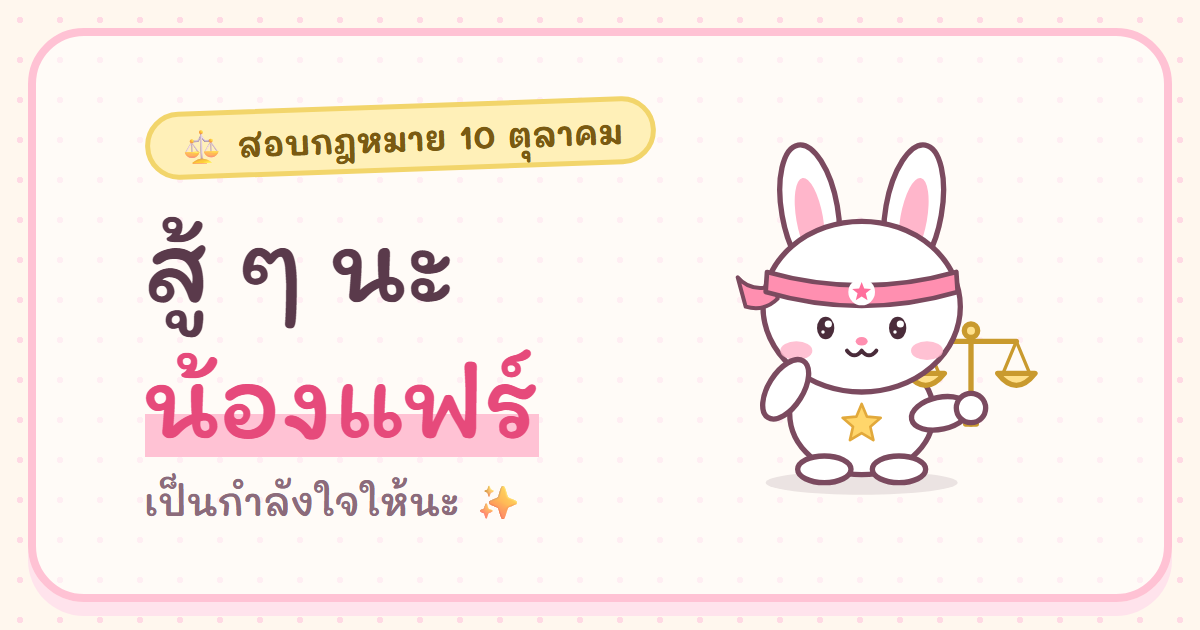
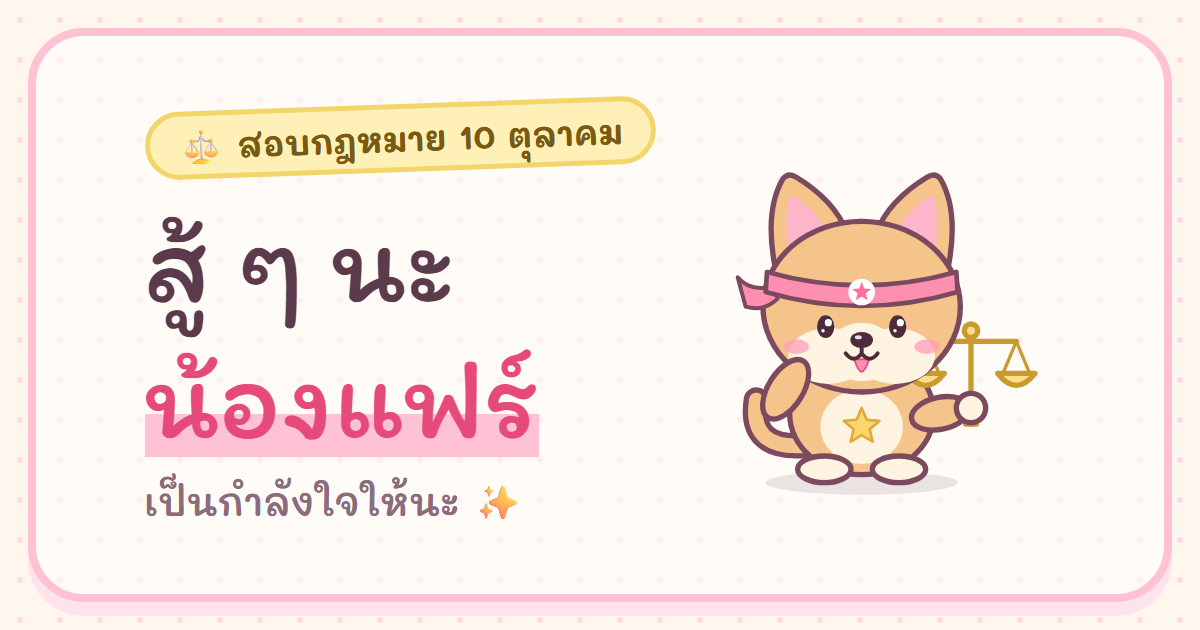
Swap mascot to a dog and replace letter with a playful court game
- Redraw mascot as a shiba-style puppy (wagging tail, headband, scales)
- Remove the letter section; add "ศาลกวน ๆ" random verdict game
- Regenerate og.png

Changed region(s): [[0.6167, 0.2111, 0.8325, 0.7841]]

diff --git a/index.html b/index.html
@@ -34,28 +34,35 @@
       <p class="sub">แฟร์ทำได้อยู่แล้ว เป็นกำลังใจให้นะ ✨</p>
 
       <div class="stage">
-        <div class="bubble" id="bubble" aria-live="polite">กดที่ตัวน้องกระต่ายได้นะ 🐰</div>
+        <div class="bubble" id="bubble" aria-live="polite">กดที่ตัวน้องหมาได้นะ 🐶</div>
 
-        <button class="mascot-btn" id="mascotBtn" type="button" aria-label="จิ้มน้องกระต่ายเพื่อรับกำลังใจ">
+        <button class="mascot-btn" id="mascotBtn" type="button" aria-label="จิ้มน้องหมาเพื่อรับกำลังใจ">
           <svg class="mascot" viewBox="0 0 270 280" aria-hidden="true">
             <ellipse class="shadow" cx="125" cy="266" rx="72" ry="9" fill="#5A3A4B" opacity=".12"/>
 
-            <g class="bunny">
+            <g class="pup">
+              <!-- หาง -->
+              <g class="tail">
+                <path d="M84 238 Q40 242 46 204" fill="none" stroke="#7B4A5F" stroke-width="19" stroke-linecap="round"/>
+                <path d="M84 238 Q40 242 46 204" fill="none" stroke="#F5C48A" stroke-width="11" stroke-linecap="round"/>
+              </g>
+
               <!-- หู -->
               <g class="ear ear-l">
-                <ellipse cx="86" cy="62" rx="21" ry="50" transform="rotate(-10 86 62)" fill="#fff" stroke="#7B4A5F" stroke-width="4"/>
-                <ellipse cx="86" cy="68" rx="10" ry="31" transform="rotate(-10 86 68)" fill="#FFB6CB"/>
+                <path d="M60 104 Q52 62 66 38 Q70 33 76 37 Q104 54 114 78 Z" fill="#F5C48A" stroke="#7B4A5F" stroke-width="4" stroke-linejoin="round"/>
+                <path d="M70 92 Q66 62 72 50 Q92 62 100 80 Z" fill="#FFB6CB"/>
               </g>
               <g class="ear ear-r">
-                <ellipse cx="164" cy="62" rx="21" ry="50" transform="rotate(10 164 62)" fill="#fff" stroke="#7B4A5F" stroke-width="4"/>
-                <ellipse cx="164" cy="68" rx="10" ry="31" transform="rotate(10 164 68)" fill="#FFB6CB"/>
+                <path d="M190 104 Q198 62 184 38 Q180 33 174 37 Q146 54 136 78 Z" fill="#F5C48A" stroke="#7B4A5F" stroke-width="4" stroke-linejoin="round"/>
+                <path d="M180 92 Q184 62 178 50 Q158 62 150 80 Z" fill="#FFB6CB"/>
               </g>
 
               <!-- ตัว -->
-              <ellipse cx="125" cy="214" rx="54" ry="46" fill="#fff" stroke="#7B4A5F" stroke-width="4"/>
-              <polygon points="125.0,207.0 129.0,216.5 139.3,217.4 131.5,224.1 133.8,234.1 125.0,228.8 116.2,234.1 118.5,224.1 110.7,217.4 121.0,216.5" fill="#FFD66B" stroke="#E2A93B" stroke-width="2" stroke-linejoin="round"/>
-              <ellipse cx="97" cy="256" rx="20" ry="10" fill="#fff" stroke="#7B4A5F" stroke-width="4"/>
-              <ellipse cx="153" cy="256" rx="20" ry="10" fill="#fff" stroke="#7B4A5F" stroke-width="4"/>
+              <ellipse cx="125" cy="214" rx="54" ry="46" fill="#F5C48A" stroke="#7B4A5F" stroke-width="4"/>
+              <ellipse cx="125" cy="224" rx="31" ry="28" fill="#FFF4E2"/>
+              <polygon points="125.0,210.0 128.8,218.8 138.3,219.7 131.1,226.0 133.2,235.3 125.0,230.4 116.8,235.3 118.9,226.0 111.7,219.7 121.2,218.8" fill="#FFD66B" stroke="#E2A93B" stroke-width="2" stroke-linejoin="round"/>
+              <ellipse cx="97" cy="256" rx="20" ry="10" fill="#FFF4E2" stroke="#7B4A5F" stroke-width="4"/>
+              <ellipse cx="153" cy="256" rx="20" ry="10" fill="#FFF4E2" stroke="#7B4A5F" stroke-width="4"/>
 
               <!-- ตราชั่ง -->
               <g class="scale">
@@ -79,8 +86,13 @@
                 </g>
               </g>
 
-              <!-- หัว -->
-              <ellipse cx="125" cy="134" rx="74" ry="64" fill="#fff" stroke="#7B4A5F" stroke-width="4"/>
+              <!-- หัว + แก้มสีครีม -->
+              <ellipse cx="125" cy="134" rx="74" ry="64" fill="#F5C48A" stroke="#7B4A5F" stroke-width="4"/>
+              <g fill="#FFF4E2">
+                <ellipse cx="100" cy="171" rx="30" ry="21"/>
+                <ellipse cx="150" cy="171" rx="30" ry="21"/>
+                <ellipse cx="125" cy="168" rx="26" ry="22"/>
+              </g>
 
               <!-- ผ้าคาดหัว "สู้" -->
               <g class="band-tails">
@@ -92,25 +104,27 @@
 
               <!-- หน้า -->
               <g class="eyes">
-                <ellipse cx="98" cy="150" rx="6.5" ry="8.5" fill="#4A2C3A"/>
-                <ellipse cx="152" cy="150" rx="6.5" ry="8.5" fill="#4A2C3A"/>
-                <circle cx="100" cy="147" r="2.7" fill="#fff"/>
-                <circle cx="154" cy="147" r="2.7" fill="#fff"/>
-                <circle cx="96" cy="153" r="1.3" fill="#fff"/>
-                <circle cx="150" cy="153" r="1.3" fill="#fff"/>
+                <ellipse cx="98" cy="149" rx="6.5" ry="8.5" fill="#4A2C3A"/>
+                <ellipse cx="152" cy="149" rx="6.5" ry="8.5" fill="#4A2C3A"/>
+                <circle cx="100" cy="146" r="2.7" fill="#fff"/>
+                <circle cx="154" cy="146" r="2.7" fill="#fff"/>
+                <circle cx="96" cy="152" r="1.3" fill="#fff"/>
+                <circle cx="150" cy="152" r="1.3" fill="#fff"/>
               </g>
-              <ellipse cx="76" cy="167" rx="12" ry="7" fill="#FFB6CB" opacity=".85"/>
-              <ellipse cx="174" cy="167" rx="12" ry="7" fill="#FFB6CB" opacity=".85"/>
-              <ellipse cx="125" cy="160" rx="4.5" ry="3.2" fill="#FF8FB0"/>
-              <path d="M114 167 q5.5 7 11 0 q5.5 7 11 0" fill="none" stroke="#4A2C3A" stroke-width="3" stroke-linecap="round" stroke-linejoin="round"/>
+              <ellipse cx="76" cy="164" rx="9.5" ry="5.5" fill="#FF9DB8" opacity=".75"/>
+              <ellipse cx="174" cy="164" rx="9.5" ry="5.5" fill="#FF9DB8" opacity=".75"/>
+              <path d="M119.500 173.500 Q125 192 130.500 173.500 Z" fill="#FF8FB0" stroke="#D85A85" stroke-width="1.5" stroke-linejoin="round"/>
+              <path d="M125 165 L125 169 M113 169 Q119 177 125 169 Q131 177 137 169" fill="none" stroke="#4A2C3A" stroke-width="3" stroke-linecap="round" stroke-linejoin="round"/>
+              <ellipse cx="125" cy="159" rx="8.5" ry="6" fill="#4A2C3A"/>
+              <ellipse cx="122.500" cy="157" rx="2.600" ry="1.500" fill="#fff" opacity=".85"/>
 
               <!-- แขนข้างขวา จับตราชั่ง -->
-              <ellipse cx="184" cy="214" rx="22" ry="12" transform="rotate(-12 184 214)" fill="#fff" stroke="#7B4A5F" stroke-width="4"/>
-              <circle cx="207" cy="210" r="11" fill="#fff" stroke="#7B4A5F" stroke-width="4"/>
+              <ellipse cx="184" cy="214" rx="22" ry="12" transform="rotate(-12 184 214)" fill="#F5C48A" stroke="#7B4A5F" stroke-width="4"/>
+              <circle cx="207" cy="210" r="11" fill="#FFF4E2" stroke="#7B4A5F" stroke-width="4"/>
 
               <!-- แขนข้างซ้าย โบกมือ -->
               <g class="arm-l">
-                <ellipse cx="68" cy="196" rx="13" ry="25" transform="rotate(32 68 196)" fill="#fff" stroke="#7B4A5F" stroke-width="4"/>
+                <ellipse cx="68" cy="196" rx="13" ry="25" transform="rotate(32 68 196)" fill="#F5C48A" stroke="#7B4A5F" stroke-width="4"/>
               </g>
             </g>
           </svg>
@@ -136,18 +150,14 @@
       <p class="cd-note" id="cdNote"></p>
     </section>
 
-    <!-- ================= LETTER ================= -->
-    <section class="card reveal" aria-labelledby="letterTitle">
-      <h2 class="section-title" id="letterTitle">✉ ข้อความถึงแฟร์</h2>
-      <div class="letter">
-        <span class="tape" aria-hidden="true"></span>
-        <p>ถึง แฟร์</p>
-        <p>ช่วงนี้คงอ่านหนังสือหนักอยู่เลยใช่มั้ย ตัวบทก็เยอะ มาตราก็เยอะ แต่เห็นแฟร์ตั้งใจมากเลยนะ เก่งมากจริง ๆ</p>
-        <p>วันที่ <span class="exam-day">10</span> นี้ ไม่ต้องกดดันตัวเองเกินไปนะ เต็มที่เท่าที่ทำได้ก็พอแล้ว ถ้าเหนื่อยก็พักได้ แล้วค่อยลุยต่อนะ</p>
-        <p>ขอให้ทุกอย่างที่อ่านมาออกมาครบทุกมาตรา สมองแล่น มือลื่น ใจนิ่ง แล้วไว้มาเล่าให้ฟังหลังสอบนะ 🌷</p>
-        <p class="sign">เป็นกำลังใจให้นะ ✨</p>
-        <span class="stamp" aria-hidden="true">⚖</span>
+    <!-- ================= ศาลกวน ๆ ================= -->
+    <section class="card reveal court" aria-labelledby="courtTitle">
+      <h2 class="section-title" id="courtTitle">🔨 ศาลกวน ๆ เปิดพิจารณาคดี</h2>
+      <p class="section-sub">ยื่นฟ้องสิ่งที่ทำให้กังวล แล้วให้ศาลพิพากษาให้เลย</p>
+      <div class="verdict" id="verdict" aria-live="polite">
+        <p class="verdict-empty">⚖ ยังไม่มีคดีขึ้นศาล<br>กดปุ่มด้านล่างเพื่อยื่นฟ้อง</p>
       </div>
+      <button class="gavel-btn" id="gavelBtn" type="button">🔨 ยื่นฟ้อง + เคาะค้อน!</button>
     </section>
 
     <!-- ================= ประมวลกำลังใจ ================= -->

diff --git a/script.js b/script.js
@@ -26,6 +26,20 @@ const CHEER_MESSAGES = [
   'สู้ ๆ นะ ขอให้ทุกอย่างผ่านไปด้วยดี 🌈',
 ];
 
+const COURT_CASES = [
+  ['ความกังวล', 'แอบมากวนใจตอนจะหลับ', 'จำคุกตลอดชีวิตในกล่องความคิด ห้ามประกันตัว'],
+  ['ความขี้เกียจ', 'ชวนไปดูซีรีส์ ทั้งที่ยังอ่านไม่จบบท', 'ปรับให้อ่านอีกหนึ่งบท แล้วค่อยดูต่อได้ครึ่งตอน'],
+  ['อาการลืมมาตรา', 'หายตัวไปตอนเปิดข้อสอบ', 'ให้ปรากฏตัวภายในสามวินาที ฝ่าฝืนต้องไปนั่งทวนใหม่'],
+  ['ความง่วงตอนเที่ยงคืน', 'ลักลอบเข้ามาตอนกำลังทบทวน', 'ศาลสั่งให้งีบ 20 นาที แล้วลุกมากินขนมต่อ'],
+  ['ความคิดว่าตัวเองไม่เก่ง', 'ใส่ร้ายเจ้าของร่างโดยไม่มีพยานหลักฐาน', 'ยกฟ้อง! ศาลเห็นว่าแฟร์เก่งเกินกว่าจะถูกใส่ร้าย'],
+  ['โทรศัพท์มือถือ', 'ดึงสมาธิระหว่างอ่านหนังสือ', 'ศาลสั่งให้คว่ำจอ 25 นาที พักแล้วค่อยเล่นได้'],
+  ['ความตื่นเต้นหน้าห้องสอบ', 'ทำให้มือเย็นและใจเต้นรัว', 'ให้หายใจเข้า-ออกลึก ๆ สามครั้ง คดีเป็นอันยุติ'],
+  ['ตัวบทกฎหมายเล่มหนา ๆ', 'หนาเกินกว่าเหตุ', 'ให้ถูกอ่านทีละหน้า แล้วจะบางลงเองโดยปริยาย'],
+  ['ข้อสอบข้อยาก', 'ทำให้เกิดความเครียดโดยไม่จำเป็น', 'ศาลสั่งให้ข้ามไปทำข้อง่ายก่อน แล้วค่อยย้อนกลับมาสู้'],
+  ['ชานมไข่มุก', 'ล่อลวงให้ใจสั่นก่อนสอบ', 'ศาลอนุญาตให้ดื่มได้หนึ่งแก้ว หลังสอบเสร็จเท่านั้น'],
+  ['กองหนังสือสูงเป็นภูเขา', 'ข่มขวัญเจ้าของโต๊ะอ่านหนังสือ', 'ศาลเห็นว่าแฟร์อ่านมาแล้วเยอะกว่าที่คิด ให้ยกฟ้อง'],
+];
+
 const CHECKLIST = [
   ['📚', 'ทบทวนมาตราสำคัญรอบสุดท้าย (แค่เบา ๆ ไม่ต้องอัดหนัก)'],
   ['🪪', 'เตรียมบัตรประชาชน / เอกสารเข้าสอบ'],
@@ -187,10 +201,8 @@ function tickCountdown() {
   const opt = { timeZone: 'Asia/Bangkok' };
   const short = examAt.toLocaleDateString('th-TH', { ...opt, day: 'numeric', month: 'long' });
   const full = examAt.toLocaleDateString('th-TH', { ...opt, weekday: 'long', day: 'numeric', month: 'long', year: 'numeric' });
-  const day = examAt.toLocaleDateString('th-TH', { ...opt, day: 'numeric' });
   $('#examShort').textContent = short;
   $('#cdDate').textContent = `${full} · ${CONFIG.examTime} น.`;
-  document.querySelector('.exam-day').textContent = day;
 })();
 
 tickCountdown();
@@ -291,6 +303,48 @@ function renderProgress(fromUser) {
   }
 }
 renderProgress(false);
+
+/* ==========================================================
+   ศาลกวน ๆ
+   ========================================================== */
+const verdictBox = $('#verdict');
+let lastCase = -1;
+
+function thaiNum(n) { return n.toLocaleString('th-TH-u-nu-thai', { useGrouping: false }); }
+
+$('#gavelBtn').addEventListener('click', () => {
+  lastCase = pickDifferent(COURT_CASES, lastCase);
+  const [who, charge, ruling] = COURT_CASES[lastCase];
+  const year = examAt.toLocaleDateString('th-TH-u-nu-thai', { timeZone: 'Asia/Bangkok', year: 'numeric' }).replace('พ.ศ. ', '');
+
+  const title = document.createElement('div');
+  title.className = 'verdict-case';
+  title.textContent = `คดีดำที่ ${thaiNum(Math.floor(rand(1, 999)))}/${year}`;
+
+  const dl = document.createElement('dl');
+  [['จำเลย', who], ['ข้อหา', charge], ['คำพิพากษา', ruling]].forEach(([k, v], i) => {
+    const wrap = document.createElement('div');
+    const dt = document.createElement('dt');
+    dt.textContent = k;
+    const dd = document.createElement('dd');
+    dd.textContent = v;
+    if (i === 2) dd.className = 'v-final';
+    wrap.append(dt, dd);
+    dl.appendChild(wrap);
+  });
+
+  const box = document.createElement('div');
+  box.style.width = '100%';
+  box.append(title, dl);
+  verdictBox.replaceChildren(box);
+
+  verdictBox.classList.remove('slam');
+  void verdictBox.offsetWidth;
+  verdictBox.classList.add('slam');
+
+  const r = verdictBox.getBoundingClientRect();
+  burst(r.left + r.width / 2, r.top + 30, ['🔨', '⚖', '✨', '💥'], 10);
+});
 
 /* ==========================================================
    สุ่มรางวัลหลังสอบ

diff --git a/style.css b/style.css
@@ -132,7 +132,7 @@ p { margin: 0; }
 }
 .mascot { width: 100%; height: auto; overflow: visible; display: block; }
 
-.bunny { transform-box: fill-box; transform-origin: 50% 100%; animation: bob 3s ease-in-out infinite; }
+.pup { transform-box: fill-box; transform-origin: 50% 100%; animation: bob 3s ease-in-out infinite; }
 @keyframes bob {
   0%, 100% { transform: translateY(0) scale(1, 1); }
   50%      { transform: translateY(-6px) scale(1.01, .995); }
@@ -155,10 +155,13 @@ p { margin: 0; }
 .scale { transform-box: fill-box; transform-origin: 50% 100%; animation: sway 3.4s ease-in-out infinite; }
 @keyframes sway { 0%, 100% { transform: rotate(-2.5deg); } 50% { transform: rotate(2.5deg); } }
 
+.tail { transform-box: fill-box; transform-origin: 85% 95%; animation: wag .7s ease-in-out infinite; }
+@keyframes wag { 0%, 100% { transform: rotate(-12deg); } 50% { transform: rotate(14deg); } }
+
 .band-tails { transform-box: fill-box; transform-origin: 100% 40%; animation: flap 1.2s ease-in-out infinite; }
 @keyframes flap { 0%, 100% { transform: rotate(0); } 50% { transform: rotate(-9deg); } }
 
-.mascot-btn.jump .bunny { animation: jump .6s cubic-bezier(.3, 1.4, .5, 1); }
+.mascot-btn.jump .pup { animation: jump .6s cubic-bezier(.3, 1.4, .5, 1); }
 @keyframes jump {
   0%   { transform: translateY(0) scale(1.06, .9); }
   40%  { transform: translateY(-34px) scale(.95, 1.08); }
@@ -245,49 +248,47 @@ p { margin: 0; }
   font-weight: 600;
 }
 
-/* ============ จดหมาย ============ */
-.letter {
-  position: relative;
-  margin-top: 26px;
+/* ============ ศาลกวน ๆ ============ */
+.court { text-align: center; }
+.verdict {
+  margin: 22px auto 0;
+  max-width: 460px;
+  min-height: 190px;
   background: #FFFDF6;
-  border: 3px solid #F5E3B8;
-  border-radius: 12px;
-  padding: 26px 22px 20px 26px;
-  transform: rotate(-.6deg);
-  box-shadow: 0 6px 0 #F5E3B855;
-  background-image: repeating-linear-gradient(transparent 0 33px, #FFD9E4 33px 35px);
-  background-position: 0 26px;
+  border: 3px dashed #F2D56B;
+  border-radius: 20px;
+  padding: 18px 18px 20px;
+  display: grid;
+  place-items: center;
+  text-align: left;
 }
-.letter::before {
-  content: "";
-  position: absolute;
-  left: 14px; top: 0; bottom: 0;
-  border-left: 2px solid #FFB6CB88;
+.verdict-empty { text-align: center; color: var(--ink-soft); }
+.verdict-case { font-family: var(--font-display); font-size: 1.25rem; color: var(--pink-deeper); text-align: center; width: 100%; margin-bottom: 8px; }
+.verdict dl { margin: 0; width: 100%; display: grid; gap: 8px; }
+.verdict dt { font-size: .85rem; font-weight: 700; color: var(--ink-soft); }
+.verdict dd { margin: 0; line-height: 1.55; }
+.verdict .v-final { background: var(--butter); border-radius: 14px; padding: 8px 12px; font-weight: 700; }
+.verdict.slam { animation: slam .5s cubic-bezier(.3, 1.6, .5, 1); }
+@keyframes slam {
+  0%   { transform: scale(1.18) rotate(-2deg); opacity: .4; }
+  60%  { transform: scale(.97) rotate(1deg); opacity: 1; }
+  100% { transform: scale(1) rotate(0); }
 }
-.letter p { line-height: 35px; margin-bottom: 35px; padding-left: 12px; }
-.letter p:last-of-type { margin-bottom: 0; }
-.letter .sign { text-align: right; font-weight: 700; color: var(--pink-deeper); margin-top: 0; }
-.letter p:first-of-type { padding-right: 52px; }
-.exam-day { background: var(--butter); padding: 0 .35em; border-radius: 8px; font-weight: 700; }
-.tape {
-  position: absolute;
-  top: -16px; left: 50%;
-  width: 96px; height: 28px;
-  transform: translateX(-50%) rotate(3deg);
-  background: repeating-linear-gradient(135deg, #CDEFE0cc 0 8px, #E5F7EEcc 8px 16px);
-  border-radius: 4px;
+.gavel-btn {
+  margin-top: 22px;
+  font: 700 1.15rem/1 var(--font-body);
+  color: #5B3A0E;
+  background: #FFD66B;
+  border: 3px solid #fff;
+  outline: 3px solid #E2A93B;
+  border-radius: 999px;
+  padding: 14px 28px;
+  cursor: pointer;
+  box-shadow: 0 6px 0 #C99A2E;
+  transition: transform .12s, box-shadow .12s;
 }
-.stamp {
-  position: absolute;
-  top: 14px; right: 14px;
-  width: 44px; height: 52px;
-  display: grid; place-items: center;
-  font-size: 1.5rem;
-  background: #fff;
-  border: 2px dashed #FFB6CB;
-  border-radius: 4px;
-  transform: rotate(6deg);
-}
+.gavel-btn:hover { transform: translateY(-2px); box-shadow: 0 8px 0 #C99A2E; }
+.gavel-btn:active { transform: translateY(4px); box-shadow: 0 2px 0 #C99A2E; }
 
 /* ============ ประมวลกำลังใจ ============ */
 .laws {
@@ -427,9 +428,6 @@ p { margin: 0; }
   body { font-size: 17px; }
   .card { padding: 22px 14px 24px; }
   .cd-tiles { gap: 7px; }
-  .letter { padding: 24px 14px 18px 20px; }
-  .letter::before { left: 10px; }
-  .letter p { padding-left: 8px; }
   .cheer-btn { font-size: 1.2rem; padding: 15px 28px; }
 }
 

diff --git a/README.md b/README.md
@@ -6,9 +6,9 @@
 
 ## มีอะไรบ้าง
 
-- 🐰 น้องกระต่ายถือตราชั่ง กดแล้วมีข้อความให้กำลังใจสุ่มขึ้นมา
+- 🐶 น้องหมาถือตราชั่ง กดแล้วมีข้อความให้กำลังใจสุ่มขึ้นมา
 - ⏰ นับถอยหลังสู่วันสอบ (เวลาไทย)
-- ✉ ข้อความถึงแฟร์
+- 🔨 ศาลกวน ๆ กดแล้วสุ่มพิพากษาความกังวลแบบฮา ๆ
 - 📜 ประมวลกำลังใจ (เลียนแบบมาตรากฎหมายแบบขำ ๆ)
 - ✅ เช็กลิสต์ก่อนวันสอบ (ติ๊กแล้วเครื่องจำให้)
 - 🎁 สุ่มรางวัลหลังสอบเสร็จ
@@ -18,7 +18,7 @@
 - วัน-เวลาสอบ: ด้านบนของ `script.js` (`CONFIG.examDate`, `CONFIG.examTime`)
 - ข้อความให้กำลังใจที่สุ่ม: `CHEER_MESSAGES` ใน `script.js`
 - รายการเช็กลิสต์: `CHECKLIST`, ของรางวัล: `REWARDS` ใน `script.js`
-- ข้อความในจดหมาย / ประมวลกำลังใจ: `index.html`
+- ประมวลกำลังใจ: `index.html`, คดีของศาลกวน ๆ: `COURT_CASES` ใน `script.js`
 - สีและหน้าตา: ตัวแปรสีที่ต้นไฟล์ `style.css`
 
 ## ลองดูในเครื่อง
